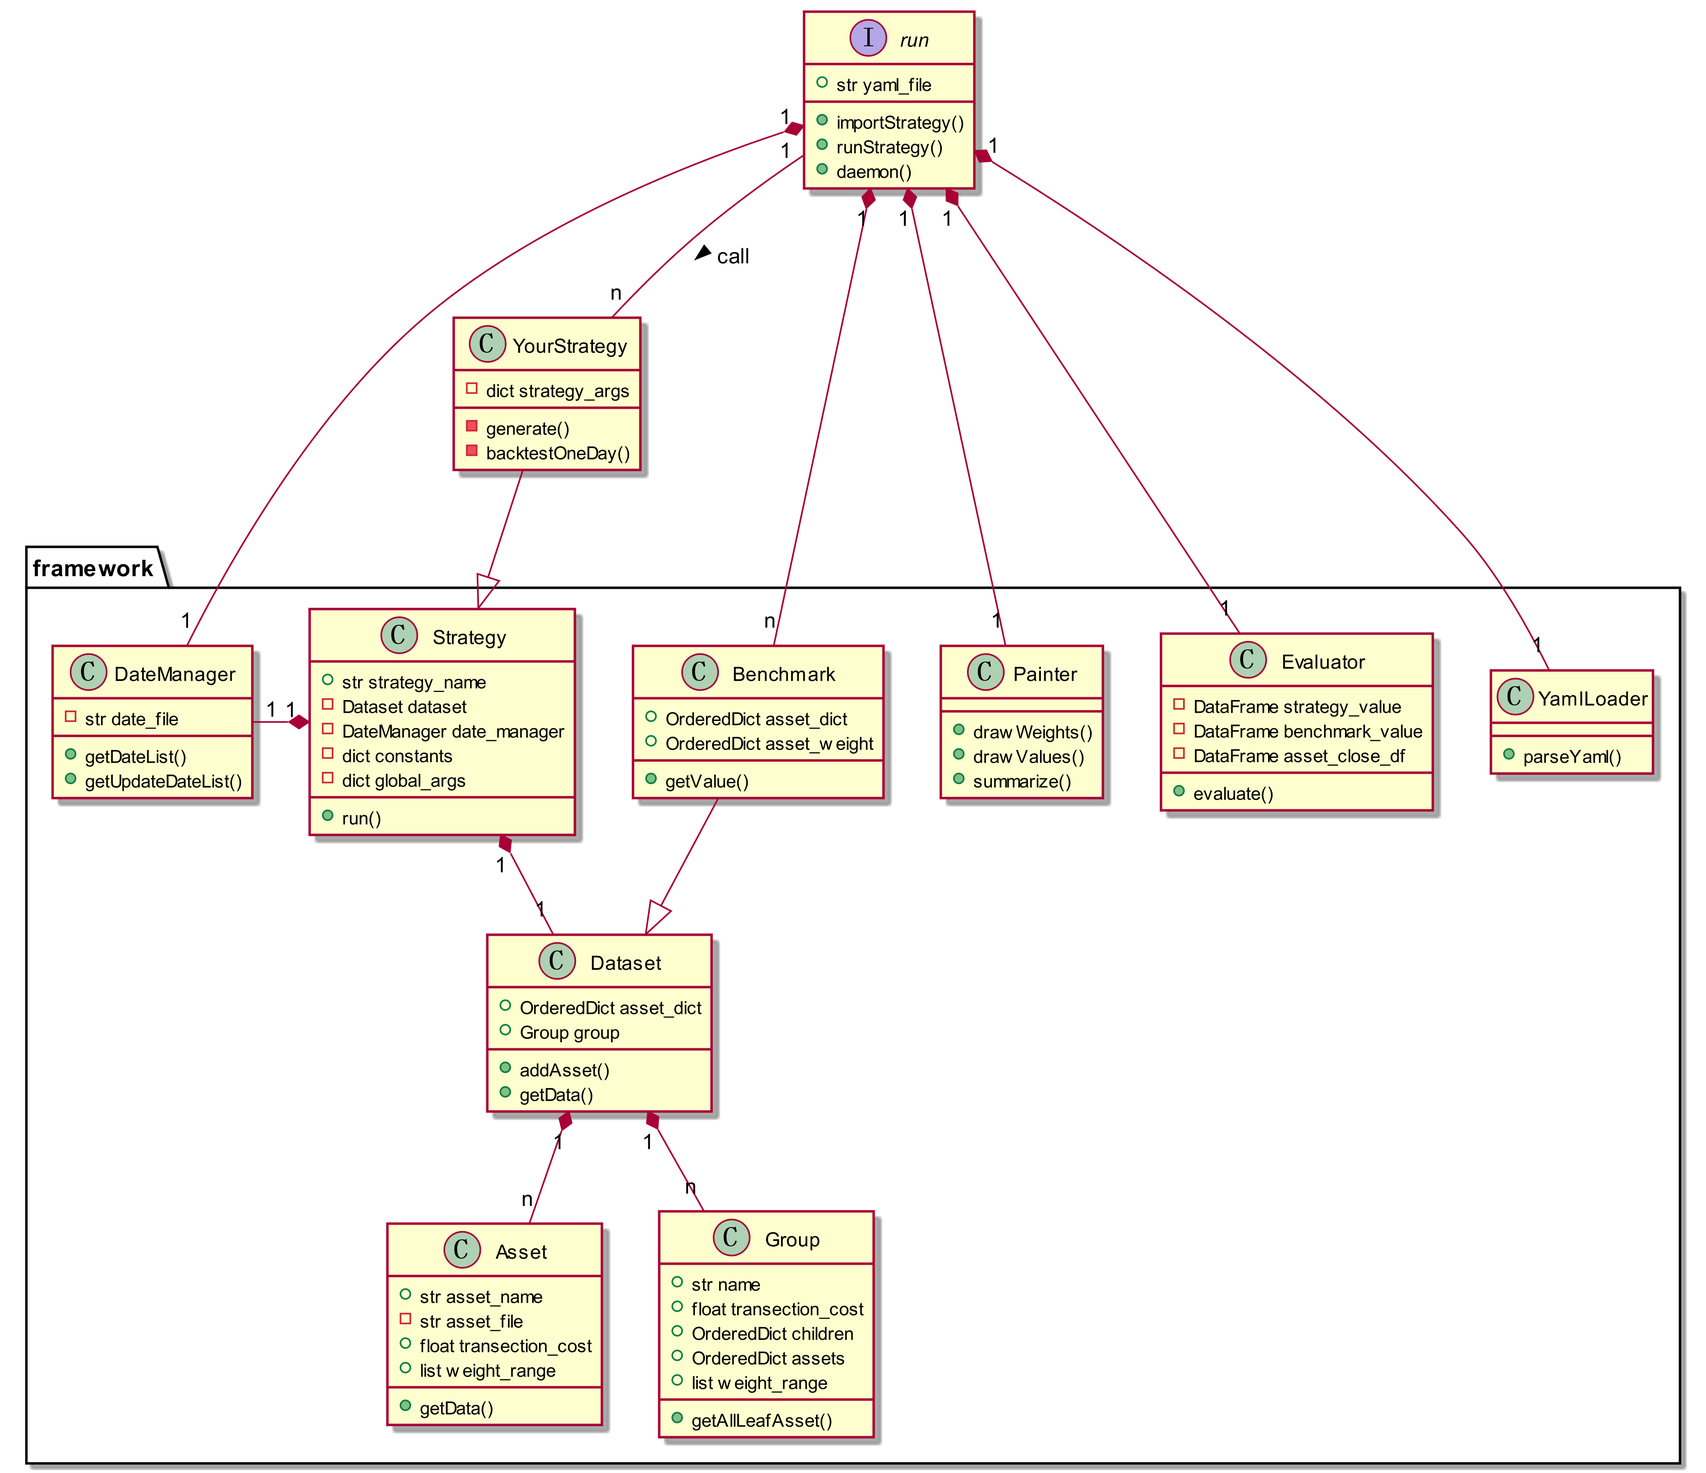
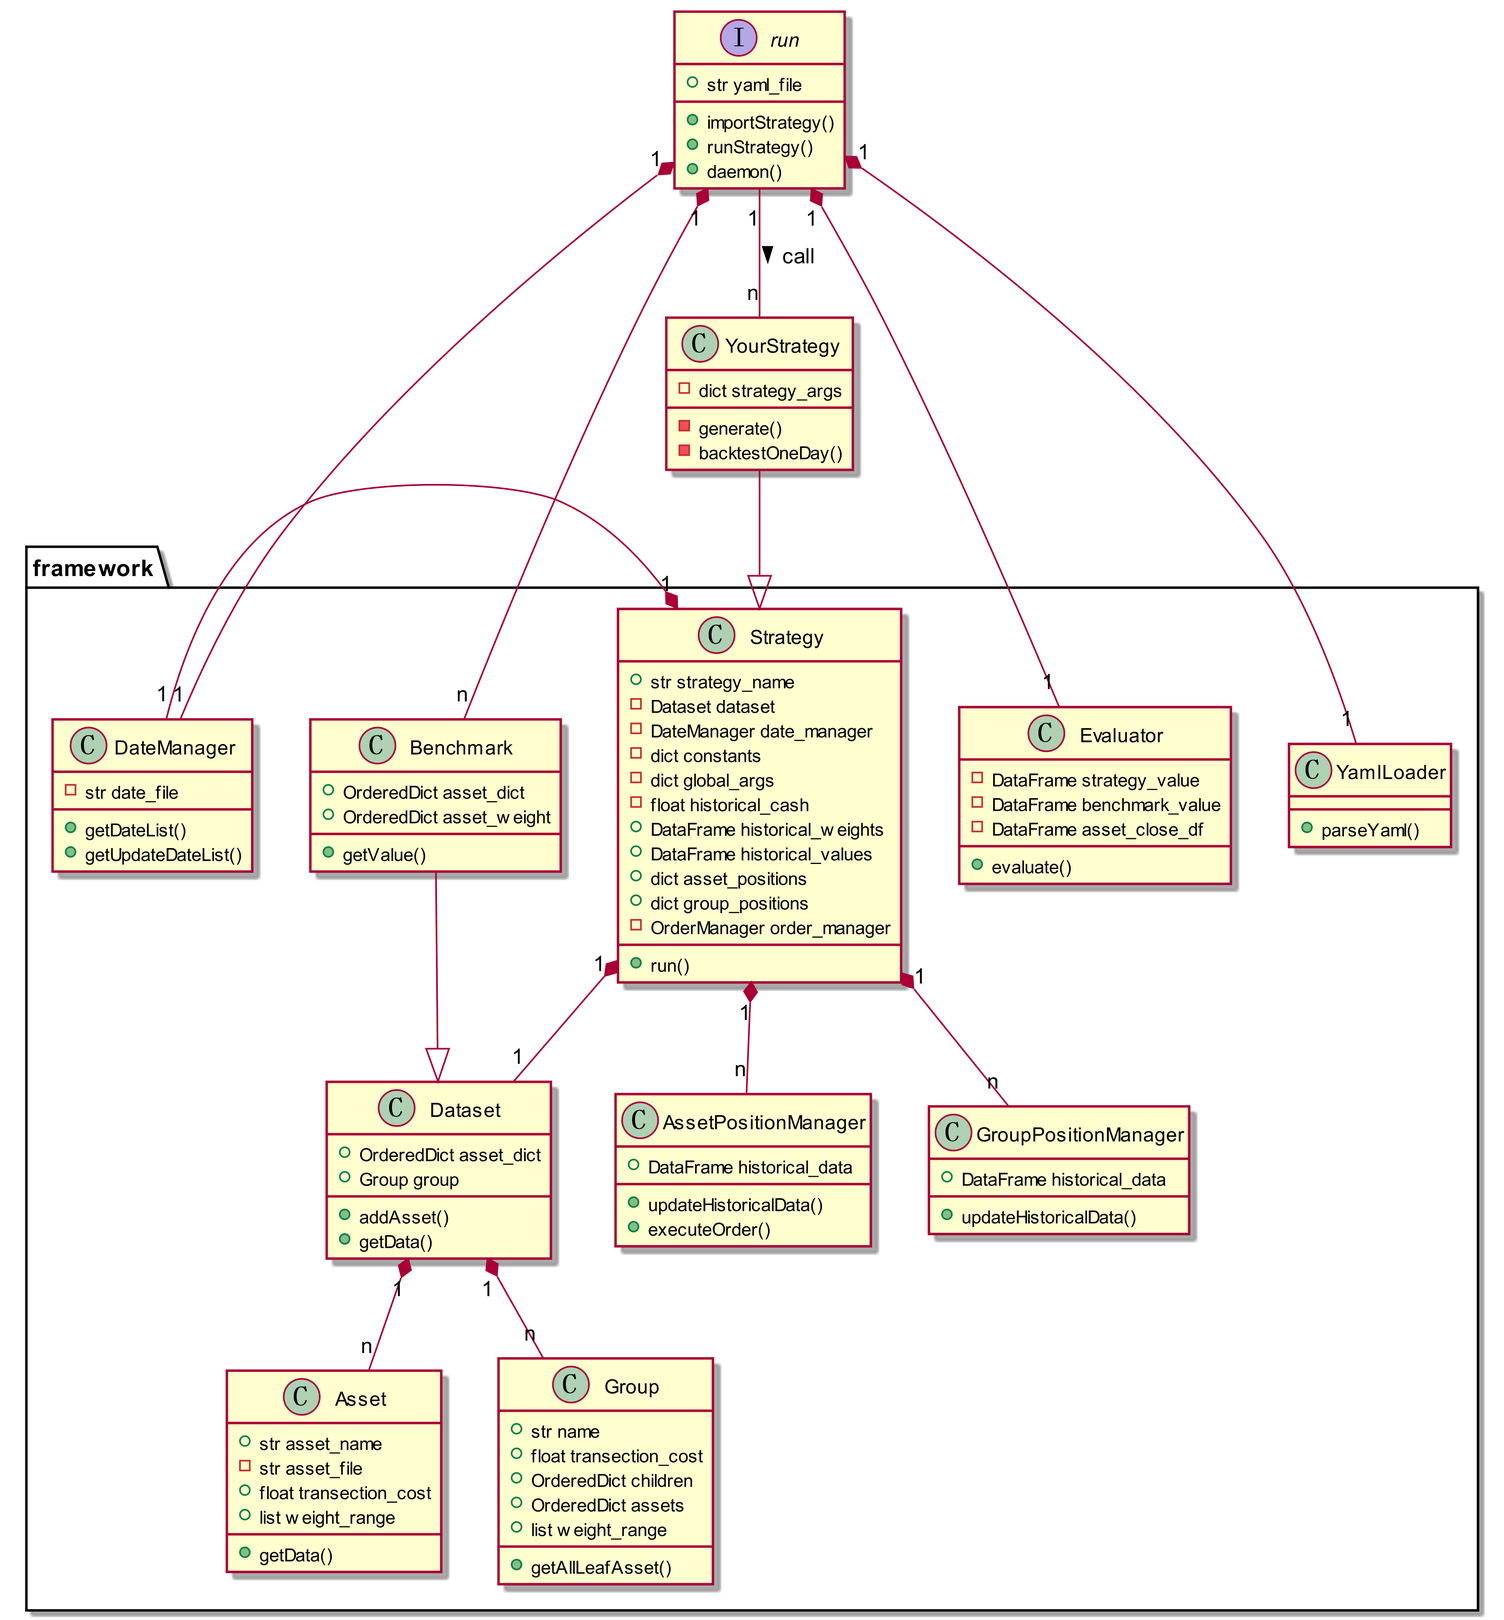
update README

diff --git a/run.py b/run.py
@@ -72,13 +72,20 @@ def setDataset(dataset_dict):
     return dataset
 
 
-def setBenchmark(benchmark_dict):
-    if not benchmark_dict:
+def setBenchmark(benchmark_data):
+    global date_manager
+    date_list = date_manager.getDateList(yaml_data['global_args']['backtest_date_range'])
+    if not benchmark_data:
         return None
-    benchmark = Benchmark(benchmark_name=benchmark_dict['name'])
-    for asset in benchmark_dict['asset']:
-        benchmark.addAsset(asset['asset_file'], asset['weight'])
-    return benchmark
+    if not isinstance(benchmark_data, list):
+        benchmark_data = [benchmark_data]
+    benchmark_value = pd.DataFrame(index=date_list)
+    for benchmark_dict in benchmark_data:
+        benchmark = Benchmark(benchmark_name=benchmark_dict['name'])
+        for asset in benchmark_dict['asset']:
+            benchmark.addAsset(asset['asset_file'], asset['weight'])
+        benchmark_value[benchmark_dict['name']] = benchmark.getValue(date_list)
+    return benchmark_value
 
 def runSingleStrategy(Strategy, strategy_args, constants={}, global_args={}, strategy_name=''):
     global dataset, date_manager
@@ -114,7 +121,8 @@ def runStrategy(yaml_data):
             runSingleStrategy(Strategy, strategy_args, strategy_name='{}_{}'.format(yaml_data['strategy']['strategy_name'], '_'.join(['{}_{}'.format(k,v) for k,v in this_strategy_args.items() if len(strategy_args[k])>1])), constants=constants, global_args=global_args)
         
 def daemon():
-    global strategy_dict, result_path, date_list, benchmark_value, yaml_data
+    global strategy_dict, result_path, date_manager, benchmark_value, yaml_data
+    date_list = date_manager.getDateList(yaml_data['global_args']['backtest_date_range'])
     strategy_values = pd.DataFrame(index=date_list)
     strategy_threads = [s.thread_id for s in strategy_dict.values()]
     while 1:
@@ -128,7 +136,7 @@ def daemon():
                 strategy_values[k] = v.historical_values
             # draw all_in_one values
             asset_close_df = list(strategy_dict.values())[0].asset_close_df
-            drawValues(strategy_values, os.path.join(result_path, 'all_in_one.png'),asset_close_df=asset_close_df, )
+            drawValues(strategy_values, os.path.join(result_path, 'all_in_one.png'),asset_close_df=asset_close_df, benchmark=benchmark_value)
             # evaluator
             evaluation = Evaluator(strategy_value=strategy_values, benchmark_value=benchmark_value, asset_close_df=asset_close_df, constants=yaml_data['constants']).evaluate()
             evaluation.to_csv(os.path.join(result_path, 'evaluation.csv'), encoding='utf_8_sig')
@@ -149,9 +157,6 @@ if __name__ == '__main__':
 
     yaml_data = getYamlData(yaml_file)
 
-    # generate date range
-    if yaml_data['global_args']['generation_date_range']:
-        yaml_data['global_args']['generation_date_range'] = [datetime(d[0], d[1], d[2]) for d in yaml_data['global_args']['generation_date_range']]
     # backtest date range
     yaml_data['global_args']['backtest_date_range'] = [datetime(d[0], d[1], d[2]) for d in yaml_data['global_args']['backtest_date_range']]
 
@@ -164,13 +169,12 @@ if __name__ == '__main__':
 
     # dataset
     dataset = setDataset(yaml_data['dataset'])
+
+    # date_manager
+    date_manager = DateManager(yaml_data['global_args']['transection_date_file'])
     
     # benchmark
-    benchmark = setBenchmark(yaml_data['benchmark'])
-
-    date_manager = DateManager(yaml_data['global_args']['transection_date_file'])
-    date_list = date_manager.getDateList(yaml_data['global_args']['backtest_date_range'])
-    benchmark_value = benchmark.getValue(date_list) if benchmark else None
+    benchmark_value = setBenchmark(yaml_data['benchmark'])
 
     # check result path
     result_path = yaml_data['global_args']['result_path']

diff --git a/framework/strategy.py b/framework/strategy.py
@@ -72,14 +72,6 @@ class Strategy(ABC):
         pass
 
     @abstractmethod
-    def update(self, *args, **kwargs):
-        pass   
-    
-    @abstractmethod
-    def rebalance(self, *args, **kwargs):
-        pass
-
-    @abstractmethod
     def afterBacktest(self, *args, **kwargs):
         pass             
 
@@ -92,7 +84,8 @@ class Strategy(ABC):
 
     def setCloseAndYieldDf(self):
         # date list with buffer for get raw data
-        self.backtest_date_list_with_buffer = self.date_manager.getDateList(self.global_args['backtest_date_range'], buffer=self.global_args['buffer'])
+        # +1 for calculate daily yield
+        self.backtest_date_list_with_buffer = self.date_manager.getDateList(self.global_args['backtest_date_range'], buffer=self.global_args['buffer']+1)
         self.backtest_date_list = self.date_manager.getDateList(self.global_args['backtest_date_range'], buffer=0)
         self.raw_data, self.missing_date = self.dataset.getData(self.backtest_date_list_with_buffer)
         self.asset_close_df = self.dataset.dict2CloseDf(self.raw_data)
@@ -127,13 +120,14 @@ class Strategy(ABC):
             assert v.asset.weight_range[0] < v.weight < v.asset.weight_range[1], 'asset {} weight is {}, out of range {}'.format(k, v.weight, v.asset.weight_range)
         for k,v in self.group_positions.items():
             v.updateHistoricalData(date=self.current_date)
-            assert v.group.weight_range[0] < v.historical_data.loc[self.current_date, 'weight'] < v.group.weight_range[1], 'group {} weight is {}, out of range {}'.format(k, v.historical_data.loc[self.current_date, 'weight'], v.group.weight_range)
+            assert v.group.weight_range[0] < v.weight < v.group.weight_range[1], 'group {} weight is {}, out of range {}'.format(k, v.weight, v.group.weight_range)
         
 
     def prepareUserData(self):
         # we can't use data on current_date
         self.user_close = self.asset_close_df.loc[:self.current_date].iloc[-self.global_args['buffer']-1: -1]
         self.user_yield = self.asset_daily_yield_df.loc[:self.current_date].iloc[-self.global_args['buffer']-1: -1]
+        self.user_raw_data = {k: v.iloc[-self.global_args['buffer']-1: -1] for k, v in self.raw_data.items()}
 
         self.orders = []
         self.weights = None

diff --git a/framework/position_manager.py b/framework/position_manager.py
@@ -44,9 +44,13 @@ class AssetPositionManager():
         assert self.asset_name == order.asset_name
         cost = abs(order.money) * transection_cost
         self.total_transection_cost += cost
-        self.total_investment += order.money
         self.position += order.money - cost
         self.number_of_position += (order.money-cost) / self.close
+
+        if order.money >= 0:
+            self.total_investment += order.money
+        else:
+            self.total_investment *= (1 + order.money/self.position)
         
 
     def updateBeforeOrders(self, daily_yield):
@@ -69,5 +73,6 @@ class GroupPositionManager():
     def updateHistoricalData(self, date=None):
         assert date and date not in self.historical_data.index
         for key in ['weight', 'position', 'total_investment', 'total_return', 'total_transection_cost', ]:
-            self.historical_data.loc[date, key] = sum([getattr(m, key) for m in self.positon_managers])
+            setattr(self, key, sum([getattr(m, key) for m in self.positon_managers]))
+            self.historical_data.loc[date, key] = getattr(self, key)
         self.historical_data.loc[date, 'total_yield'] = self.historical_data.loc[date, 'total_return'] / self.historical_data.loc[date, 'total_investment'] if self.historical_data.loc[date, 'total_investment'] != 0 else 0.

diff --git a/strategy/rp/rp_strategy.py b/strategy/rp/rp_strategy.py
@@ -21,9 +21,10 @@ class RP(Strategy):
         
 
     def backtestOneDay(self):
-        # self.current_date
-        # self.user_close
-        # self.user_yield
+        # You can use self.current_date, self.user_close, self.user_yield and self.user_raw_data
+        # save target weights to self.weights
+        # set orders to self.orders
+
         if self.current_date in self.update_date:   
             self.update()       
             return

diff --git a/README.md b/README.md
@@ -2,15 +2,175 @@
 *苑思成，20220428*  
 *https://github.com/yuansicheng/quantitative_strategy_framework/tree/master*
 
-## 框架设计背景
-上一个版本 *https://github.com/yuansicheng/strategy_template/tree/master* ，实现了回测的基本功能，但是使用和配置比较复杂，因此在上一个版本的基础上，主要针对以下方面进行了升级和优化：
+## 一、框架设计背景
+上一个版本 *https://github.com/yuansicheng/strategy_template/tree/master* ，实现了回测的基本功能，但是使用和配置比较复杂，因此在上一个版本的基础上，主要针对以下方面进行了升级和优化： 
+### 1. 配置方面：
 - 使用yaml作为配置文件，yaml相对于python的好处在于语法简单，用户使用已有yaml模板可以快速更改参数进行下一组回测；
 - 使用动态加载策略代码的方式，用户使用不同策略时，入口都是同一个python脚本；
 - 使用matrix（参考github action）的方式，用户可以通过指定不同的参数实现多组参数的回测；
-- 为每组参数对应的策略创建一个线程，并行执行回测，串行执行保存数据和图片，提高回测效率；
-- 设置守护线程，当策略全部执行完毕后进行评估。
+### 2. 策略方面：
+- 将净值计算方式变更为订单驱动，即任意交易按照策略计算出的权重，将被转换为一系列订单进行计算。因此需要在原基础上增加订单管理和仓位管理模块；
+- 将用户数据与原始数据隔离，避免用户在编写回测策略时误用未来的数据导致结果出错；
+- 策略执行结束后保存策略历史净值、历史权重、历史现金仓位、资产仓位、资产分组仓位等数据；
+### 3. 效率方面：
+- 为每组参数对应的策略创建一个线程，并行执行回测和保存数据，提高回测效率；
+- 设置守护线程，当策略全部执行完毕后统一进行评估，减少重复的计算量。
 
-## 框架结构
+## 二、框架结构
 ![框架类图](design/class.png) 
 
-## 用户手册
+## 三、用户手册
+
+### 1. 编写策略
+在./strategy文件夹下新建一个文件夹，建议使用策略的小写名称命名；
+- 在该文件夹下新建.py文件，编写策略继承Strategy基类；
+- 导入策略基类;
+    ```python
+    from framework.strategy import Strategy
+    ```
+- 继承策略基类；
+    ```python
+    class YourStrategy(Strategy):
+        def __init__(self, *args, strategy_args={}, **kwargs) -> None:
+            super().__init__(*args, **kwargs)
+            self.strategy_args = strategy_args
+    ```
+- 实现backtestOneDay函数，该函数用于交易日循环，在该函数中，推荐用户通过对当前日期进行判断，执行对应的操作，将具体操作写到另外的函数中，比如计算单期策略或再平衡。用户可以使用的变量如下：
+  - self.current_date：当前日期；
+  - self.update_date：按照用户设置的频率计算出的所有需要执行策略的日期；
+  - self.rebalance_date：按照用户设置的频率计算出的所有需要执行再平衡的日期；
+  - self.user_close：当前日期前buffer天（buffer需在yaml中配置）各资产的收盘价，未归一化；
+  - self.user_yield：当前日期前buffer天各资产的收益率，未-1，即后一天收盘价/前一天收盘价；
+  - self.user_raw_data：一个字典，key为资产名称，value为当前日期前buffer天各资产的原始数据；
+  - self.asset_positions：一个字典，key为资产名称，value为当前资产的仓位管理器，可获取当前资产的仓位等信息，字段及含义见用户手册；
+  - self.group_positions：一个字典，key为资产名称，value为当前分组的仓位管理器字段及含义同上；
+- 策略运行结果，框架支持目标权重和订单两种输入；
+  - 目标权重：框架为用户初始化一个self.weights变量，默认为None，用户可以将该变量设置为当天的目标权重，格式为dict或DataFrame；框架将自动将目标权重转换为订单；
+  - 订单：框架为用户初始化一个self.orders变量，默认为[]，用户可用向该变量中添加当天的订单，订单执行后将被放入订单管理系统，执行订单操作由框架完成。添加订单的方式如下：
+    ```python
+    self.orders.append(Order(date=_, asset=_, money=_, mark=_))
+    # mark默认为空，其余3项必须设置
+    ```
+- 实现afterBacktest函数，该函数在回测（所有日期）结束后执行一次，用户可以在该函数中保存一些策略中间结果，策略、仓位等通用结果将会统一保存，用户无需再次保存。保存的文件名可以按照下面代码设置：
+    ```python
+    os.path.join(self.result_path, your_file_name)
+    ```   
+
+### 2. 编写策略文件
+新建一个yaml配置文件，后缀为.yaml或.yml，配置文件中需要包含5部分；
+- constants：配置常用常数。比如DAY_OF_YEAR、RFR等，配置文件中需要引用常数时，可使用&和*的yaml语法；
+- global_args：策略通用的参数，这些参数需要在策略基类中使用，因此必须设置；
+  - loglevel：输出日志级别（10-DEBUG, 20-INFO, 30-WARNING, 40-ERROR, 50-CRITICAL），常用20；
+  - result_path：策略结果文件保存地址，由于该框架支持多策略并行，每个策略将会在该文件夹下新建一个以策略名命名的文件夹；
+  - transection_date_file：交易日列表，一个csv文件，可用choice导出，但是只能导出到当年年底，需要跨年后更新或使用choice的Excel插件生成，公式为
+    ```vb
+    EM_TRADEDATES("1990-01-01","2029-12-31","Period=1,Order=1,MarketType=CNSESH,Format=1,Layout=1,ClearNumber=0")
+    ```
+  - backtest_date_range：回测区间，由一个list确定，list中的两个元素分别代表开始和结束，格式为[年，月，日]，例如[[2010, 1, 1], [2010, 12, 31]]
+  - frequency：策略更新频率，整数或weekly，monthly，quarterly；
+  - rebalance_frequency：策略再平衡频率，同上；
+  - buffer：读取原始数据时的缓冲区，向前多读一些数据；
+  - cash：初始资金，默认为10000；
+
+- strategy：指定使用的策略，
+  - strategy_file：策略文件的路径，用.分隔，策略文件对于run.py的相对路径，比如strategy.rp.rp_strategy；
+  - strategy_name：策略子类的名称；
+  程序将动态加载该策略，即在代码中生成：
+    ``` python
+    from strategy_file import strategy_name
+    ```
+
+- strategy_args：将要传给策略子类的参数，使用matrix的方式解析并生成多个策略，可用于参数搜索。
+    ``` yaml
+    strategy_args: 
+        # 固定参数可以直接设置
+        key_1: value_1
+        # 变量参数使用list设置
+        key_2: [value_2_1, value_2_2]
+        key_3: [value_3_1, value_3_2]
+    ```
+    按照上述配置，框架将会生成4组策略，启动4个线程进行回测。
+
+- dataset：用于回测的数据集，支持任意层的资产分组，同一个分组下可以设置子分组和资产。
+  - 结构：所有资产必须属于root组，即
+    ``` yaml
+    dataset:
+      group:
+        - group_name: root
+    ```
+    root组下设置子分组和资产，
+    ``` yaml
+    dataset:
+      group:
+        - group_name: root
+            group:
+              - group_name: bonds
+            asset:
+              - asset_file: data/中债-国债总财富(总值)指数.csv
+    ```
+
+  - 分组和资产默认值可按照如下设置
+    ``` yaml
+    group_default: &group_default
+      group_name: ''
+      transection_cost: 0.0002
+      weight_range: [0., 1.]
+
+    asset_default: &asset_default
+      asset_name: ''
+      asset_file: ''
+      type: precision
+      transection_cost: 0.0002
+      weight_range: [0., 1.]
+    ```
+    通过`<<: *group_default`和`<<: *asset_default`导入默认配置。
+  - 资产模糊指定：用户可通过通配符指定一系列资产，需要将type关键字设置为fuzzy，框架将会调用glob模块解析并寻找所有符合条件的资产，以黄金为例，
+    ``` yaml
+    - asset_file: data/*黄金*
+      type: fuzzy
+      <<: *asset_default
+    ```
+    即可实现模糊指定。
+
+- benchmark：业绩基准，可使用list的方式设置多个，用户需指定基准名称、资产文件和权重，各资产权重之和须等于1，例如，
+    ``` yaml
+    - name: 0.2x国债+0.8x沪深300
+      asset:
+        - asset_file: data/沪深300指数(全收益).csv
+          weight: 0.2
+        - asset_file: data/中债-国债总财富(总值)指数.csv
+          weight: 0.8
+    ```
+
+### 3. 检查运行结果
+用户可通过运行`python run.py --yaml_file _`运行策略，所有策略都可以通过这种方式执行。策略结束后，将自动保存如下数据：
+- 策略净值汇总图：all_in_one.png
+- 策略评估汇总：evaluation.csv，其中指标如下：
+  - 每年的收益率（不足一年的由这部分数据计算年化收益）；
+  - 累计收益率=$100 \times (回测期内最后一个净值/第一个净值-1)$；
+  - 年化收益率=$100 \times ((回测期内最后一个净值/回测期内第一个净值)^{DAYOFYEAR/回测天数}-1)$；
+  - 年化波动率=$100 \times std(日收益) \times \sqrt{DAYOFYEAR}$；
+  - 最大回撤；
+  - 最大回撤发生区间；
+  - 最长回撤持续时间；
+  - 最长回撤发生区间；
+  - sharp比率=$(年化收益率-RFR)/年化波动率$；
+  - calmar比率=$(年化收益率-RFR)/最大回撤$；
+  - sortino比率=$(年化收益率-RFR)/下行波动率$；
+  - 信息比率=$(年化收益率-业绩基准年化收益率)/跟踪误差$ （DataFrame中存储策略相对于各个资产的信息比率）。
+
+对于每组参数，将保存：
+- weights.csv：每日各资产的权重；
+- values.csv：策略净值；
+- cash.csv：现金头寸；
+- asset_positions.xlsx：资产历史仓位，每个资产占用一个sheet；group_positions.xlsx：资产分组历史仓位，每个分组占用一个sheet，由组内资产仓位计算得到；字段及含义如下，
+  - weight：权重；
+  - position：仓位，持有该资产的总价值；
+  - close：收盘价；
+  - daily_return：当日收益率；
+  - total_investment：总投资，不考虑做空；
+  - cost_price: 单位资产的成本；
+  - total_yield：资产持有收益率；
+  - total_return：资产总收益；
+  - number_of_position：持有数量；
+  - total_transection_cost：累计交易成本；
